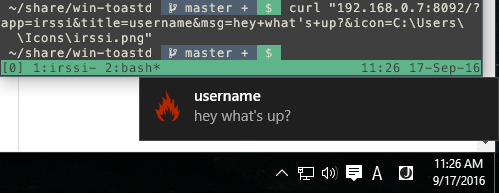
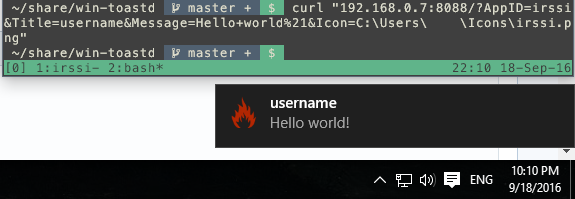
Added JSON support. Changed GET query parameters, please update your scripts.

Changed region(s): [[0.0, 0.0, 1.0, 1.0]]

diff --git a/toastd.go b/toastd.go
@@ -17,18 +17,16 @@ import (
 )
 
 func handler(c *gin.Context) {
-  app := c.DefaultQuery("app", "toastd")
-  title := c.DefaultQuery("title", "")
-  msg := c.DefaultQuery("msg", "")
-  icon := c.DefaultQuery("icon", "")
+  var notification toast.Notification
 
-  notification := toast.Notification{
-      AppID: app,
-      Title: title,
-      Message: strings.Replace(msg, "&", "and", -1),
-      Icon: icon,
+  // handles JSON, URL query parameters...
+  c.Bind(&notification)
+
+  if notification.AppID == "" {
+    notification.AppID = "toastd"
   }
 
+  notification = sanitize(notification)
   err := notification.Push()
   if err != nil {
       log.Fatalln(err)
@@ -37,17 +35,17 @@ func handler(c *gin.Context) {
 
 func gatekeeper(allowExternal bool) gin.HandlerFunc {
   return func(c *gin.Context) {
-    if !allowExternal {
-      addresses, err := net.InterfaceAddrs()
-      if err != nil {
-        c.AbortWithStatus(403)
-      }
+    if allowExternal { return }
 
-      addr := c.ClientIP()
+    addresses, err := net.InterfaceAddrs()
+    if err != nil {
+      c.AbortWithStatus(403)
+    }
 
-      if !contains(addresses, addr) && addr != "::1"{
-        c.AbortWithStatus(403)
-      }
+    addr := c.ClientIP()
+
+    if !contains(addresses, addr) && addr != "::1"{
+      c.AbortWithStatus(403)
     }
   }
 }
@@ -65,6 +63,17 @@ func contains(haystack []net.Addr, needle string) bool {
   }
   return false
 }
+
+// PowerShell does not like ampersands. Attempts to escape the character have been unsuccessful.
+// Waiting on an upstream fix.
+func sanitize(n toast.Notification) toast.Notification {
+  n.AppID = strings.Replace(n.AppID, "&", "+", -1)
+  n.Title = strings.Replace(n.Title, "&", "+", -1)
+  n.Message = strings.Replace(n.Message, "&", "+", -1)
+
+  return n
+}
+
 func main() {
   port := flag.String("port", "8092", "The port you want to listen to. Default: 8092")
   allowExternal := flag.Bool("allow-external", false, "Allow requests from external IP addresses. {true, false} Default: false")
@@ -76,5 +85,6 @@ func main() {
   r.Use(gatekeeper(*allowExternal))
 
   r.GET("/", handler)
+  r.POST("/", handler)
   r.Run(":"+*port)
 }

diff --git a/readme.md b/readme.md
@@ -2,26 +2,39 @@
 
 toastd lets Windows 10 users receive notifications from another machine. It was designed to work with virtual machine guests, so external IP addresses are ignored by default.
 
-This application listens for requests on a port (default: 8092)
-with the following optional query parameters:
-  * app:       The name of the application. Toasts are grouped by app in the notification center.
-  * title:     The title of the toast.
-  * msg:       The message body.
-  * icon:      Path to an icon on your Windows system.
+This application listens for requests on port 8092 by default, and it accepts
+GET queries and JSON POSTs. Messages containing ampersands (`&`) are not supported at this time, and they will be converted to `+`.
 
+##Parameters:
+  * AppID:       The name of the application. Toasts are grouped by app in the notification center.
+  * Title:       The title of the toast.
+  * Message      The message body.
+  * Icon:        Path to an icon on your Windows system.
+
+###GET Query
 Encode the following reserved characters in your query parameters.
 
 | Desired Character |  URL Encoding  | Output |
 |:-----------------:|:--------------:|:------:|
-| space             | + or %20       |   ` `  |
-| +                 | %2b            |   `+`  |
-| &                 | %26            |  `and` |
-| "                 | \"             |   `"`  |
+| ` ` (space)       | `+` or `%20`   |   ` `  |
+| `+`               | `%2b`          |   `+`  |
+| `&`               | `%26`          |   `+`  |
+| `"`               | `\"`           |   `"`  |
+| `!`               | `%21`          |   `!`  |
 
-##Example request:
+###POST JSON
+You will have to escape `'`, `"`, `\`, and control codes with a backslash `\` (eg: `\'`, `\"`, `\\`). A JSON encoding library should do this for you.
 
+##Example requests:
+
+GET Query:
   ```bash
-  curl "192.168.0.5:8092/?app=irssi&title=username&msg=hey+what's+up?&icon=C:\Users\Username\Icons\irssi.png"
+  curl "192.168.0.5:8092/?AppID=irssi&Title=username&Message=hey+what's+up?&Icon=C:\Users\Username\Icons\irssi.png"
+  ```
+
+POST JSON:
+  ```bash
+  curl -H "Content-Type: application/json" -X POST -d '{"AppID":"irssi", "Title":"username", "Message":"some message", "Icon":"C:/Users/Username/Icons/irssi.png"}' 192.168.0.7:8092
   ```
 
   ![toast-screenshot](./irssi-notification.png)
